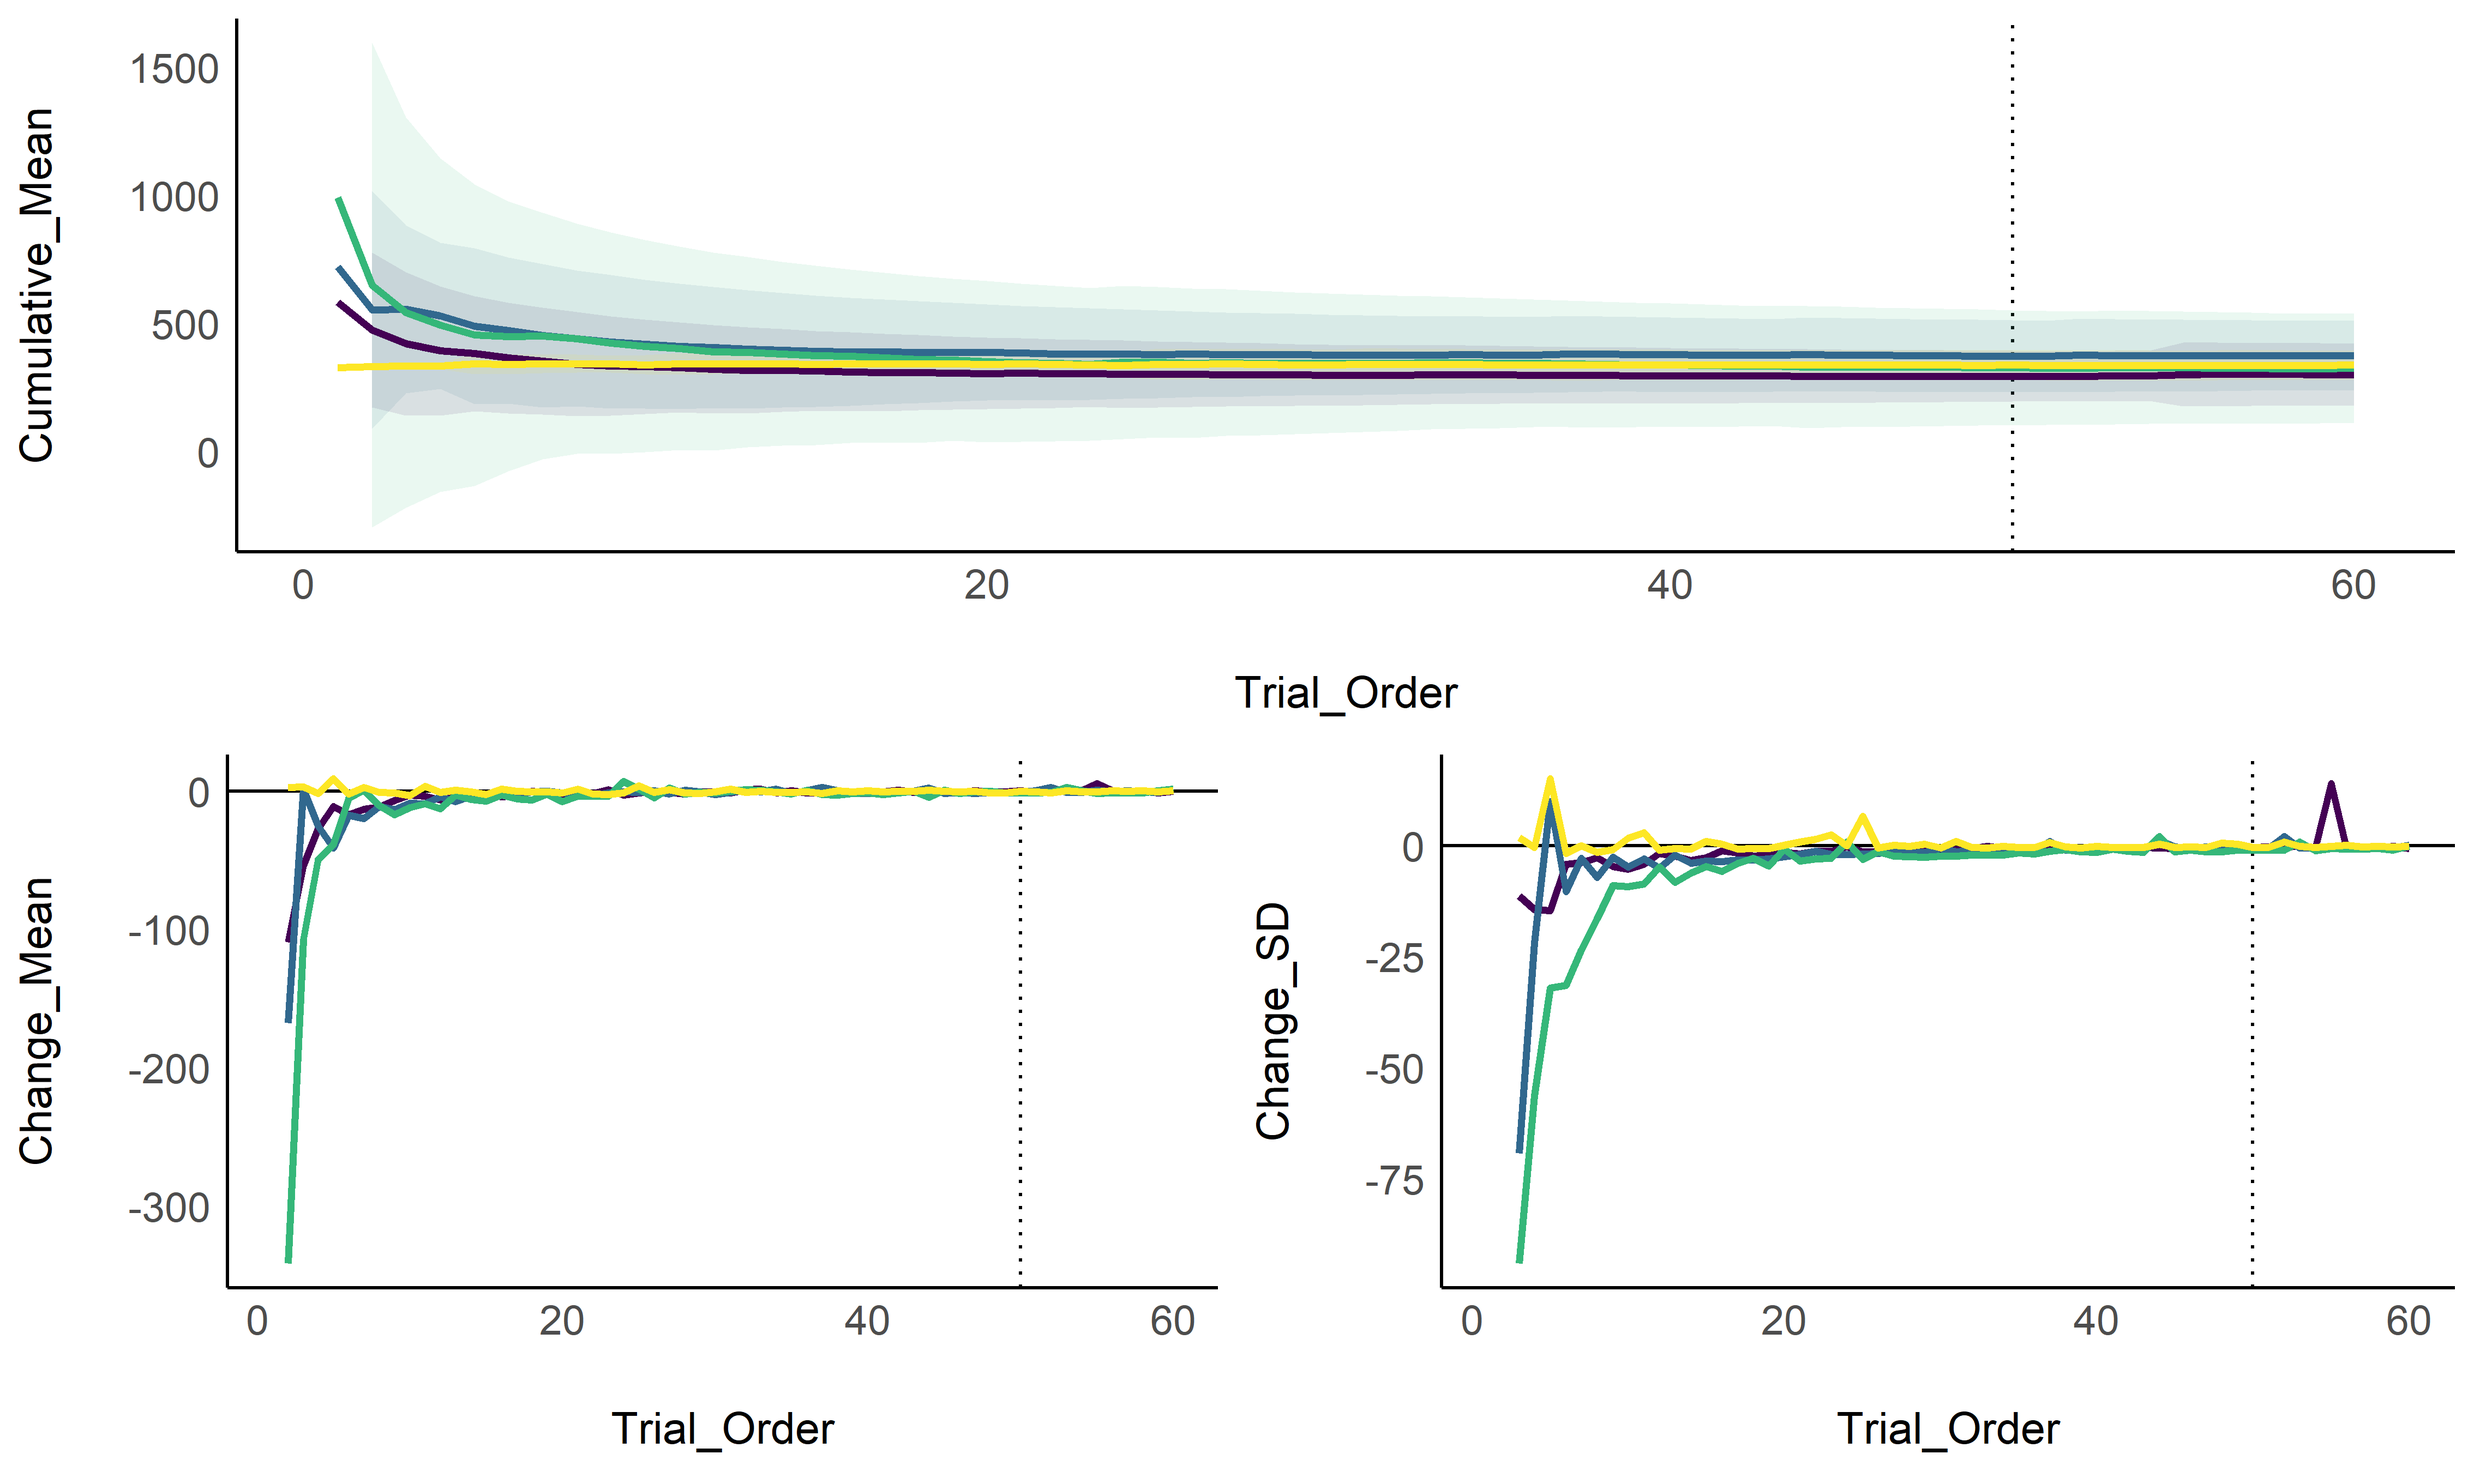
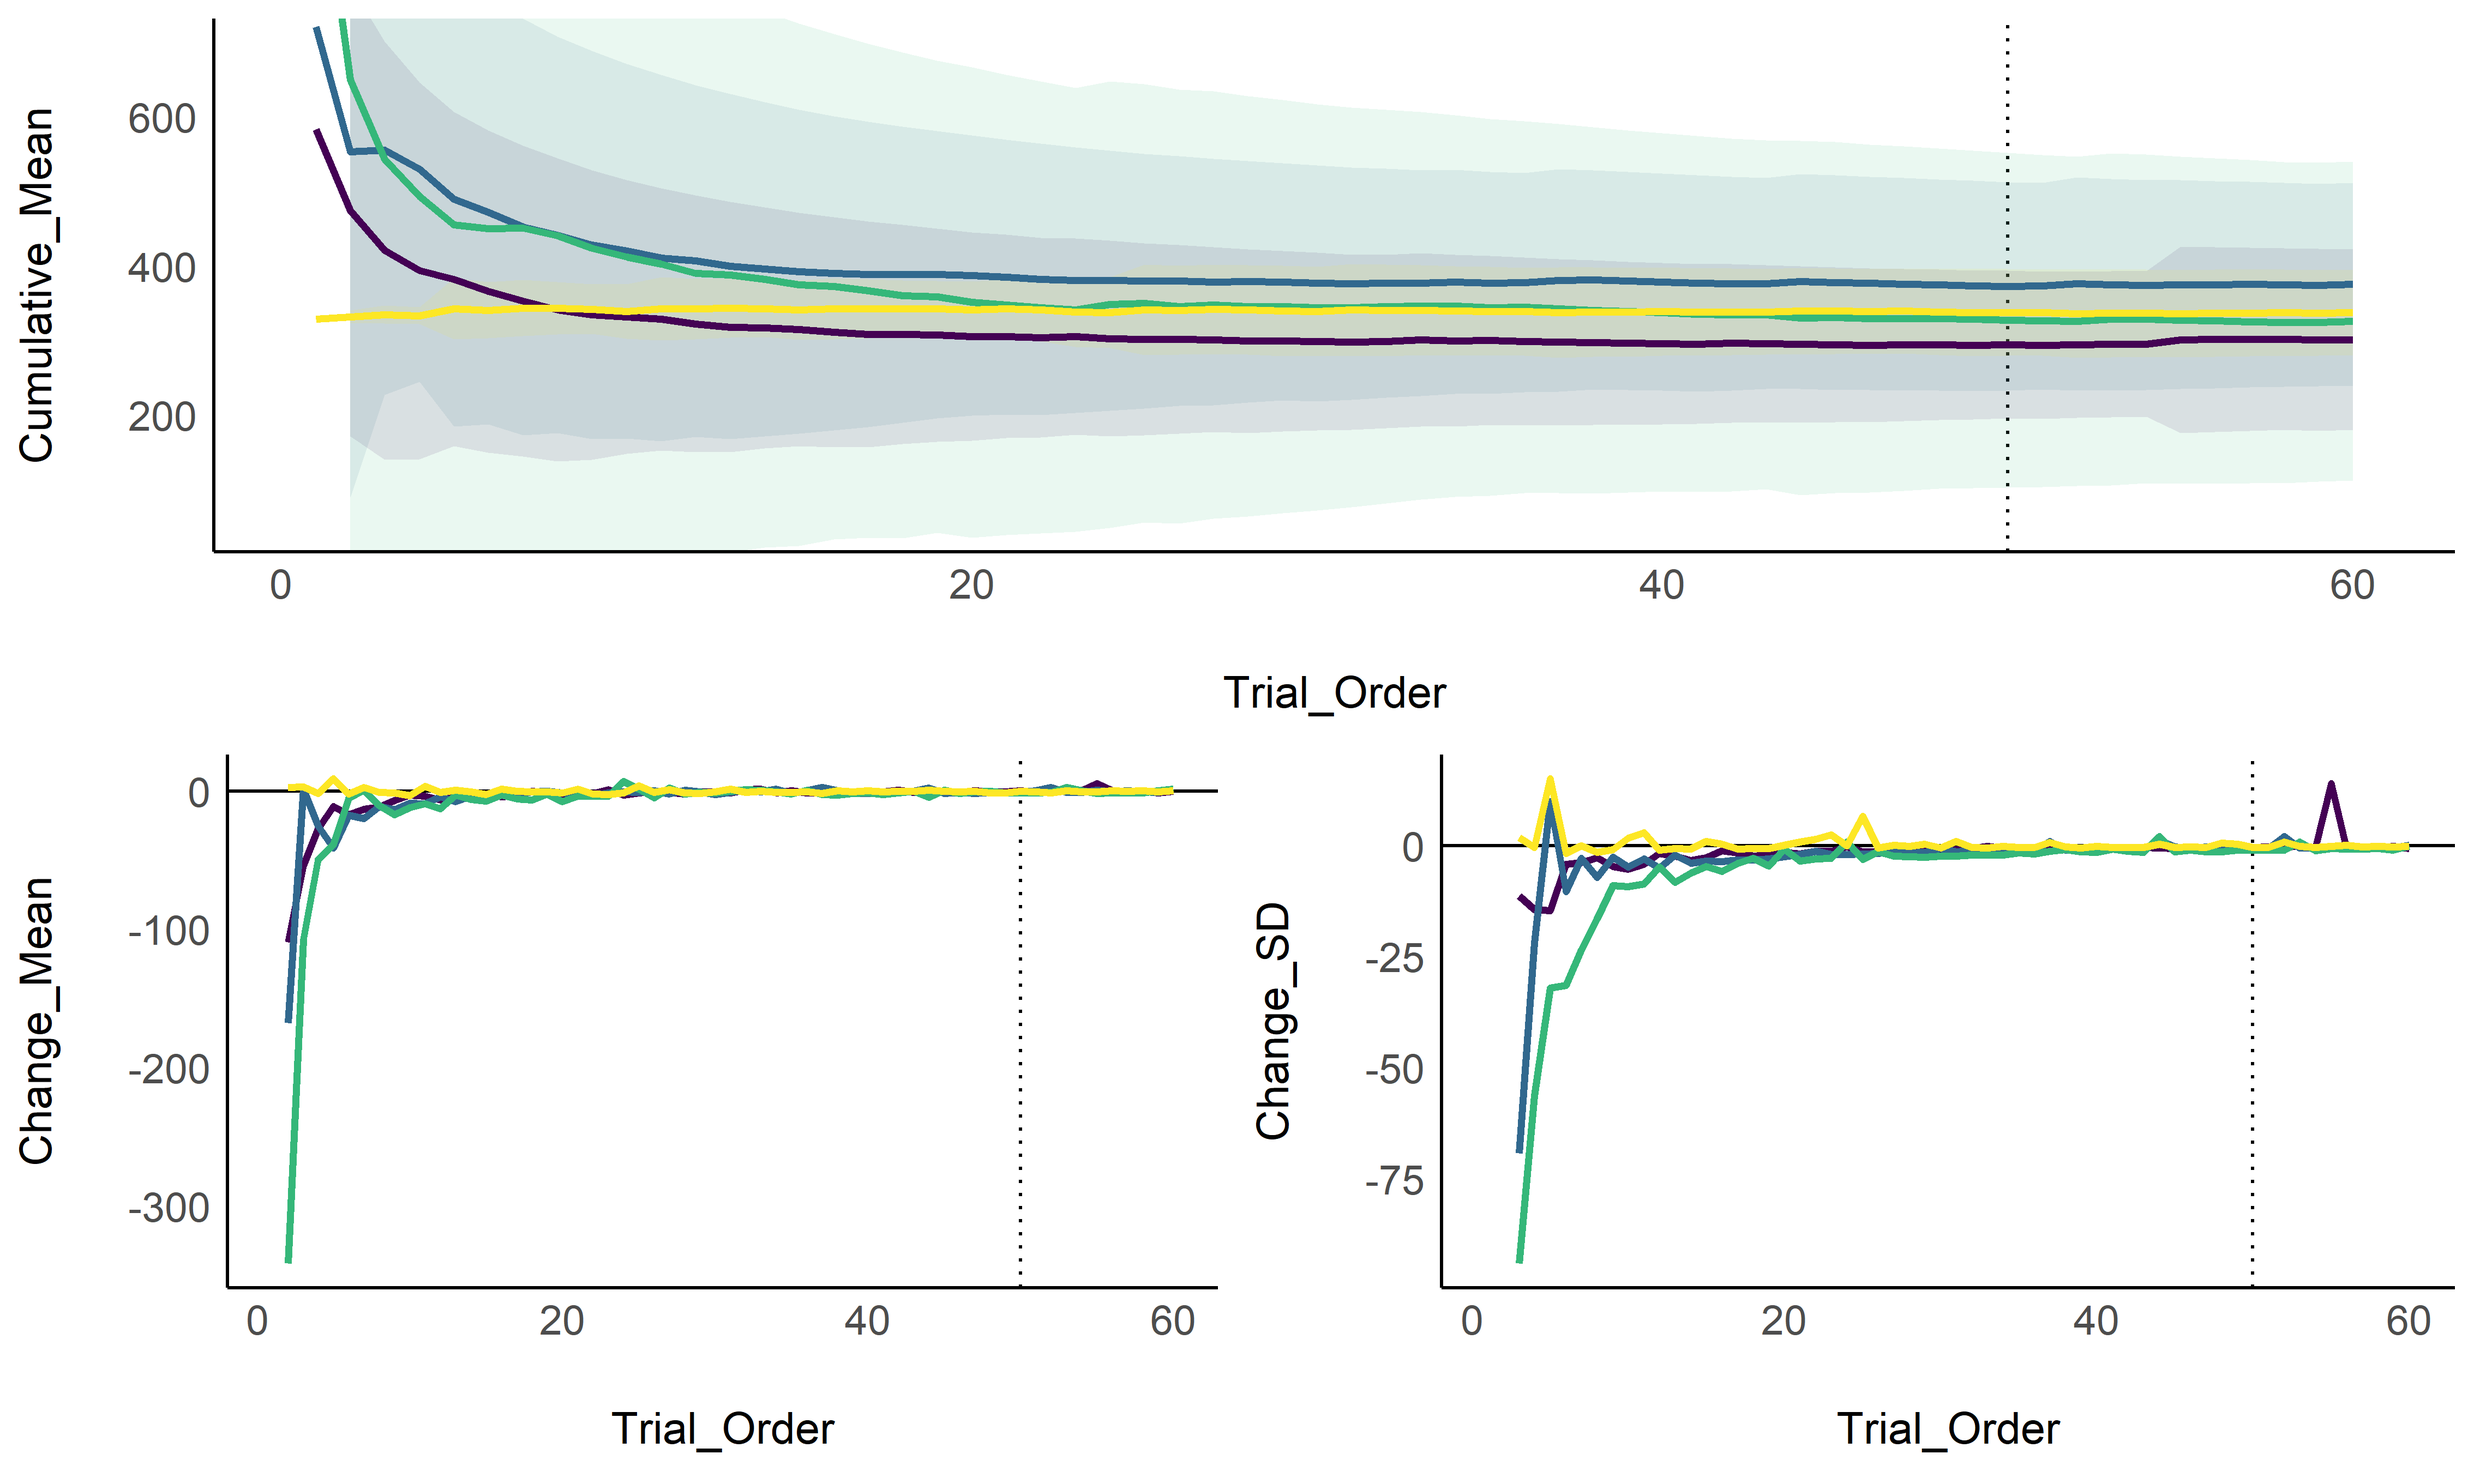
minor

diff --git a/prototype_python/how_many_trials/README.md b/prototype_python/how_many_trials/README.md
@@ -87,7 +87,8 @@ fig1 <- cowplot::plot_grid(
     geom_line(aes(color = Participant), size = 1) +
     theme_modern() +
     scale_color_viridis_d(guide = FALSE) +
-    scale_fill_viridis_d(guide = FALSE),
+    scale_fill_viridis_d(guide = FALSE) +
+    coord_cartesian(ylim = c(50, 700)),
   cowplot::plot_grid(df %>%
     ggplot(aes(x = Trial_Order, y = Change_Mean)) +
     geom_vline(xintercept = 50, linetype = "dotted") +
